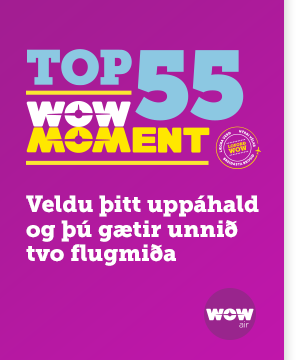
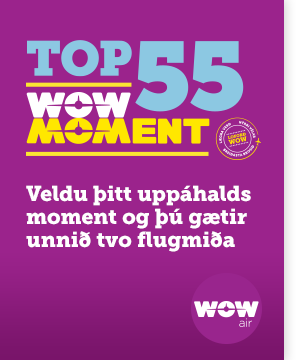
created a new size

diff --git a/310x400.html b/310x400.html
@@ -14,7 +14,8 @@
 
     <!-- Place favicon.ico and apple-touch-icon.png in the root directory -->
 
-    <link rel="stylesheet" href="stylus/1018x360.css">
+    <link rel="stylesheet" href="stylus/310x400.css">
+
     <script src="js/vendor/modernizr-2.6.2.min.js"></script>
 </head>
 
@@ -23,20 +24,16 @@
         <a id="header" href="http://moments.wow.is/view/best/"></a>
 
         <div id="content">
-            <div class="top"></div>
-            
             <div id="entries">
                 <div class="slider"></div>
             </div>
 
-            <div class="bottom">
-                <div class="prev"></div>
+            <div class="prev"></div>
 
-                <div class="next"></div>
-            </div>
-
-            <div class="right-shadow"></div>
+            <div class="next"></div>
         </div>
+
+        <a id="footer" href="http://moments.wow.is/view/best/"></a>
     </div>
 
     <script src="//ajax.googleapis.com/ajax/libs/jquery/1.9.1/jquery.min.js"></script>
@@ -59,6 +56,7 @@
     
     <script src="ls/views.js"></script>
     <script src="ls/main.js"></script>
+    <script src="ls/310x400.js"></script>
 
     <!-- Google Analytics: change UA-XXXXX-X to be your site's ID. -->
     <script>
